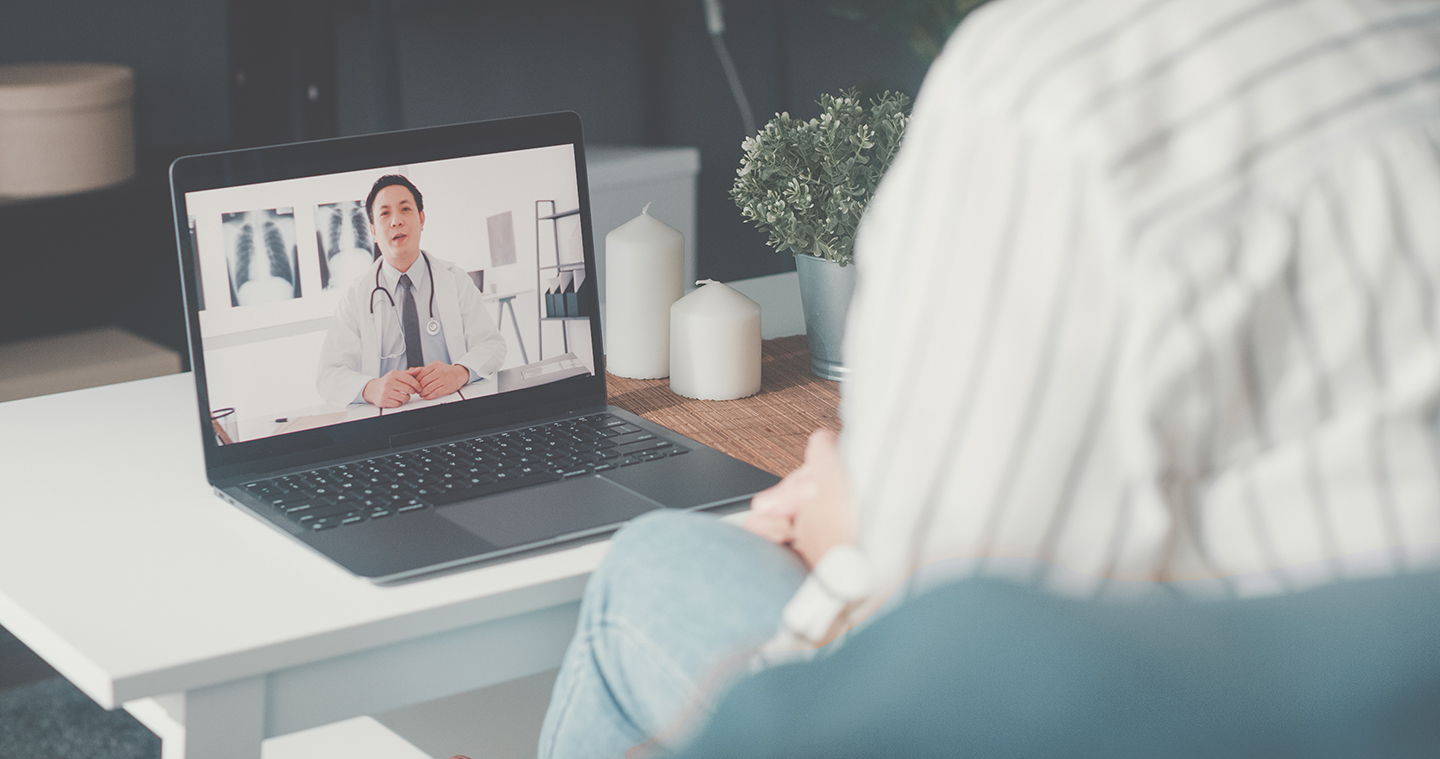
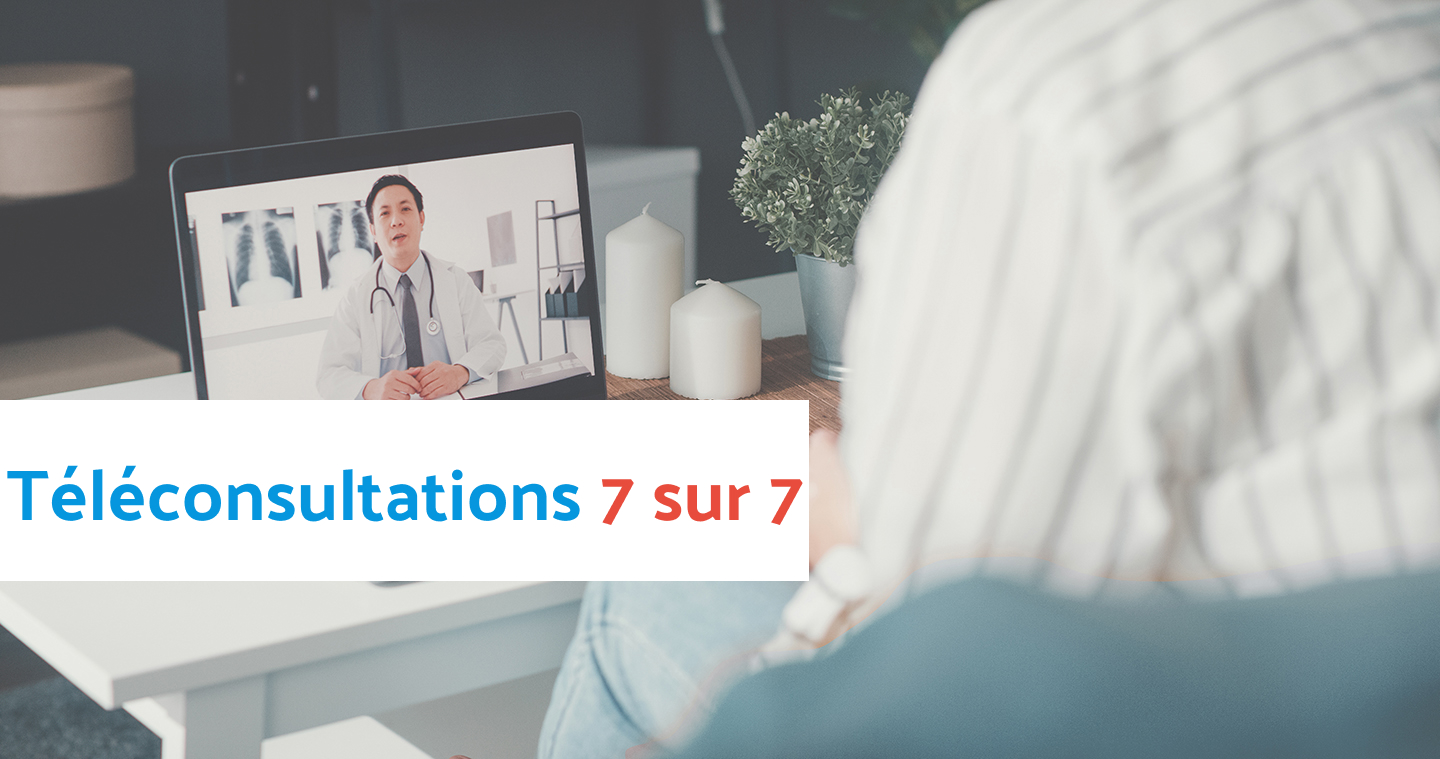
Reskin

Changed region(s): [[0.0, 0.5152, 0.5625, 0.7879]]

diff --git a/src/components/SliderComponent/SliderComponent.js b/src/components/SliderComponent/SliderComponent.js
@@ -30,7 +30,7 @@ const SliderComponent = () => {
                 }}
               layout="constrained"
               formats={["AUTO", "WEBP", "AVIF"]}
-              alt="Centre Médical Nice l'Ariane"
+              alt="Consultations 7 sur 7"
               placeholder="blurred"
             />
 
@@ -39,7 +39,7 @@ const SliderComponent = () => {
         <div className="carousel-container">
           <div className="img-container">
             <StaticImage
-              src="../../assets/images/carousel/vaccination.jpg"
+              src="../../assets/images/carousel/vaccinations.jpg"
               quality={100}
                  style={{
                   margin: '0 auto',
@@ -54,7 +54,7 @@ const SliderComponent = () => {
         <div className="carousel-container">
           <div className="img-container">
             <StaticImage
-              src="../../assets/images/carousel/covid.jpg"
+              src="../../assets/images/carousel/test-covid.jpg"
               quality={100}
                  style={{
                   margin: '0 auto',
@@ -76,7 +76,7 @@ const SliderComponent = () => {
                 }}
               layout="constrained"
               formats={["AUTO", "WEBP", "AVIF"]}
-              alt="Téléconsultations"
+              alt="Téléconsultations 7 sur 7"
               placeholder="blurred"
             />
           </div>

diff --git a/src/components/HeaderHomePage/HeaderHomePage.js b/src/components/HeaderHomePage/HeaderHomePage.js
@@ -12,13 +12,13 @@ const HomeHeader = () => {
         <p className="main-p">
           Nos centres de consultations et de téléconsultations vous accueillent
           sur la Côte d'Azur
-          <ul>
-            <li>7 jours sur 7</li>
-            <li>Week-ends et jours fériés inclus</li>
-            <li>Se 8h30 à 22h00</li>
-            <li>Sans interruption</li>
-          </ul>
         </p>
+        <ul>
+          <li>7 jours sur 7</li>
+          <li>Week-ends et jours fériés inclus</li>
+          <li>De 8h30 à 22h00</li>
+          <li>Sans interruption</li>
+        </ul>
         <div className="button-container">
           <IconButton
             css="button button__icon button__icon--blue"

diff --git a/src/pages/a-propos.js b/src/pages/a-propos.js
@@ -3,8 +3,6 @@ import { StaticImage } from "gatsby-plugin-image"
 import { graphql } from "gatsby"
 
 import Layout from "../components/Layout/Layout"
-import PagesHeader from "../components/PagesHeader/PagesHeader"
-import PriceTable from "../components/PriceTable/PriceTable"
 import Seo from "../components/seo"
 
 const OurJob = ({ data }) => {

diff --git a/src/pages/teleconsultations.js b/src/pages/teleconsultations.js
@@ -11,7 +11,6 @@ const Teleconsultation = () => (
   <Layout>
     <Seo title="Téléconsultations" />
     <div className="teleconsult-header">
-      <h1>Téléconsultations</h1>
       <ExternalButton
         css="button button__icon button__icon--blue"
         slug="https://www.doctolib.fr/medecin-generaliste/nice/7-7-teleconsultations"

diff --git a/src/components/HeaderHomePage/HeaderHomePage.scss b/src/components/HeaderHomePage/HeaderHomePage.scss
@@ -35,6 +35,7 @@
       font-size: 32px;
     }
   }
+  
 
   .slick-slider {
     width: 100%;
@@ -88,9 +89,14 @@
   }
 
   li {
+    font-family: $secondary-font;
+    text-align: center;
+    font-size: 20px;
+    line-height: 32px;
     list-style: none;
     color: $fourth-color;
   }
+
 
   .button-container {
     display: flex;

diff --git a/src/components/NavBar/NavBar.scss b/src/components/NavBar/NavBar.scss
@@ -26,7 +26,7 @@
     justify-content: flex-end;
     align-items: center;
     position: fixed;
-    top: 15px;
+    top: 30px;
     right: 10px;
     width: 200px;
     height: 80px;
@@ -39,7 +39,7 @@
 
 @media screen and (max-width: 480px) {
   .nav-container {
-    height: 80px;
+    height: 100px;
   }
 
   .logo {

diff --git a/src/styles/pages/Teleconsultations.scss b/src/styles/pages/Teleconsultations.scss
@@ -10,12 +10,7 @@
   background-position: center;
   background-repeat: no-repeat;
   background-size: contain;
-  h1 {
-    position: absolute;
-    background: #FFF;
-    text-align: left;
-    padding: 5px 50px 5px 50px;
-  }
+  
   .button__icon--blue {
     position: absolute;
     bottom: 0;

diff --git a/src/components/Burger/Burger.scss b/src/components/Burger/Burger.scss
@@ -268,6 +268,6 @@
 
 @media screen and (max-width: 480px) {
     .burger {
-        top: 20px;
+        top: 30px;
     }
 }
